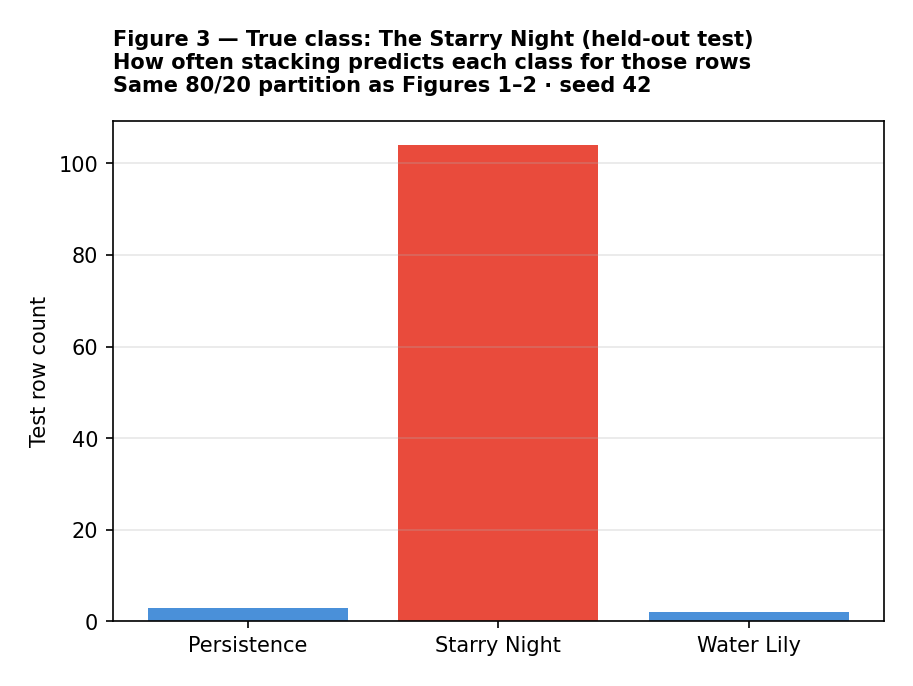
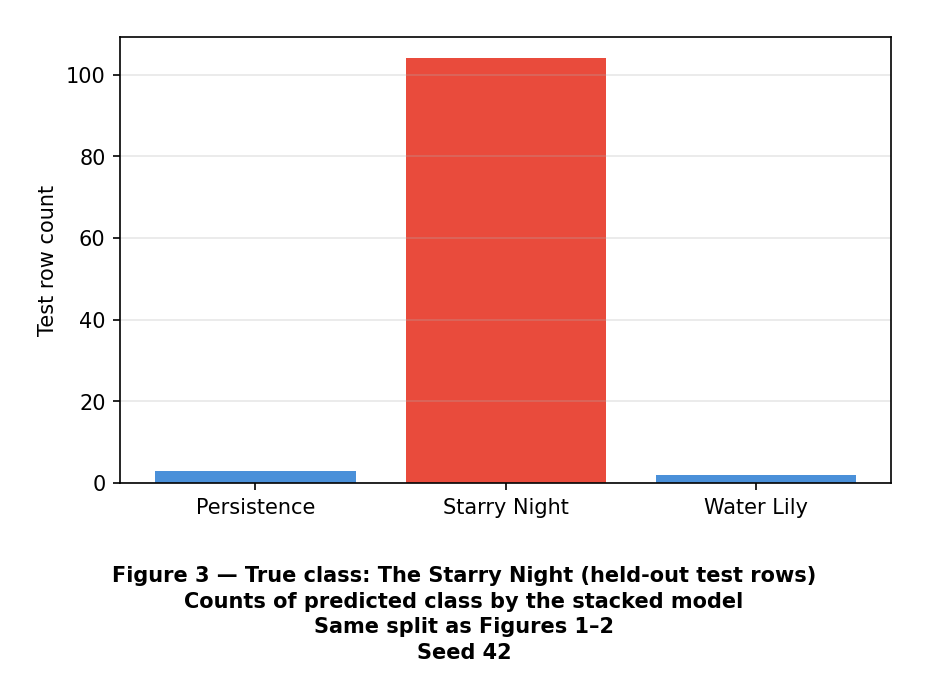
plots: titles below figure, Seed N on own line, larger bar labels, no shuffle wording
Made-with: Cursor

diff --git a/report_figures.py b/report_figures.py
@@ -23,7 +23,7 @@ Usage (repository root, ``training_data.csv`` present)::
     True class Starry Night: distribution of predicted labels on held-out test.
 
 ``plots/04_partition_seed_sensitivity.png``
-    Stacking test accuracy vs RNG seed used to shuffle persons before 80/20 split.
+    Stacking test accuracy vs random seed for the train/test split (same 80/20 protocol).
 
 ``plots/05_appendix_model_compare_min_mean_max.csv``
     Min/mean/max table; ``--appendix`` adds extra rows and ``05_appendix_model_compare.png``.
@@ -44,9 +44,20 @@ SPLIT_SEEDS_DEFAULT = [1, 7, 13, 21, 42, 84]
 PLOT_DIR = Path(__file__).resolve().parent / "plots"
 
 
-def _title_left(ax, lines: tuple[str, ...]) -> None:
-    """Multi-line figure title inside the axes (no long bottom caption — avoids wide/flat bbox)."""
-    ax.set_title("\n".join(lines), fontsize=10, fontweight="bold", loc="left", pad=14)
+def _figure_label_below(fig, lines: tuple[str, ...]) -> None:
+    """Multi-line figure title under the axes (reserve bottom margin first)."""
+    fig.tight_layout(rect=[0, 0.20, 1, 0.98])
+    fig.text(
+        0.5,
+        0.02,
+        "\n".join(lines),
+        ha="center",
+        va="bottom",
+        fontsize=10,
+        fontweight="bold",
+        transform=fig.transFigure,
+        linespacing=1.35,
+    )
 
 
 def _short_labels(names: list[str]) -> list[str]:
@@ -86,20 +97,20 @@ def figure_model_compare(r: dict, path: Path, split_seed: int) -> None:
     ax.grid(axis="y", alpha=0.3)
     # Macro-F1 can track accuracy closely on balanced 3-class data — show numeric values on bars.
     try:
-        ax.bar_label(bars_acc, fmt="%.4f", fontsize=5, padding=2)
-        ax.bar_label(bars_f1, fmt="%.4f", fontsize=5, padding=2)
+        ax.bar_label(bars_acc, fmt="%.4f", fontsize=7, padding=2)
+        ax.bar_label(bars_f1, fmt="%.4f", fontsize=7, padding=2)
     except AttributeError:
         pass
-    _title_left(
-        ax,
+    _figure_label_below(
+        fig,
         (
             "Figure 1 — Held-out test: accuracy vs macro-F1",
             "LR, NB, RF, majority vote, stacked meta-classifier",
-            f"80% persons train+val / 20% test · partition RNG seed {split_seed}",
+            "Split: 80% respondents train+val, 20% held-out test",
+            f"Seed {split_seed}",
         ),
     )
-    fig.tight_layout()
-    fig.savefig(path, dpi=150, bbox_inches="tight", pad_inches=0.2)
+    fig.savefig(path, dpi=150, bbox_inches="tight", pad_inches=0.25)
     plt.close(fig)
 
 
@@ -130,16 +141,16 @@ def figure_confusion_matrix(
                 va="center",
                 color="white" if cm[i, j] > thresh else "black",
             )
-    _title_left(
-        ax,
+    _figure_label_below(
+        fig,
         (
-            "Figure 2 — Confusion matrix: stacking on test set",
-            "Rows = true class, columns = predicted class (counts)",
-            f"Person-level split · regular_split seed = {split_seed}",
+            "Figure 2 — Confusion matrix (stacked classifier, held-out test)",
+            "Rows: true class, columns: predicted class (counts)",
+            "Split: 80% respondents train+val, 20% test",
+            f"Seed {split_seed}",
         ),
     )
-    fig.tight_layout()
-    fig.savefig(path, dpi=150, bbox_inches="tight", pad_inches=0.2)
+    fig.savefig(path, dpi=150, bbox_inches="tight", pad_inches=0.25)
     plt.close(fig)
 
 
@@ -161,16 +172,16 @@ def figure_starry_night_errors(r: dict, path: Path, split_seed: int) -> None:
     ax.bar(short, counts, color=["#4a90d9" if i != sn_i else "#e94b3c" for i in range(len(names))])
     ax.set_ylabel("Test row count")
     ax.grid(axis="y", alpha=0.3)
-    _title_left(
-        ax,
+    _figure_label_below(
+        fig,
         (
-            "Figure 3 — True class: The Starry Night (held-out test)",
-            "How often stacking predicts each class for those rows",
-            f"Same 80/20 partition as Figures 1–2 · seed {split_seed}",
+            "Figure 3 — True class: The Starry Night (held-out test rows)",
+            "Counts of predicted class by the stacked model",
+            "Same split as Figures 1–2",
+            f"Seed {split_seed}",
         ),
     )
-    fig.tight_layout()
-    fig.savefig(path, dpi=150, bbox_inches="tight", pad_inches=0.2)
+    fig.savefig(path, dpi=150, bbox_inches="tight", pad_inches=0.25)
     plt.close(fig)
 
 
@@ -178,24 +189,23 @@ def figure_stability_seeds(rows: list[tuple[int, float]], path: Path) -> None:
     seeds, accs = zip(*rows)
     fig, ax = plt.subplots(figsize=(6.5, 4.8))
     ax.plot(seeds, accs, "o-", linewidth=2, markersize=8)
-    ax.set_xlabel("RNG seed (shuffle persons, then 80/20 train+val vs test)")
-    ax.set_ylabel("Stacking accuracy on 20% held-out test")
+    ax.set_xlabel("Random seed (80/20 train+val vs test, same protocol each run)")
+    ax.set_ylabel("Stacking accuracy on held-out 20% test")
     ax.grid(True, alpha=0.3)
     m = min(accs)
     ax.axhline(m, color="gray", linestyle="--", alpha=0.7, label=f"min={m:.4f}")
     ax.axhline(np.mean(accs), color="green", linestyle=":", alpha=0.8, label=f"mean={np.mean(accs):.4f}")
     ax.legend(loc="lower right")
     seed_list = ", ".join(str(s) for s in seeds)
-    _title_left(
-        ax,
+    _figure_label_below(
+        fig,
         (
-            "Figure 4 — Sensitivity to train/test partition",
-            f"Seeds tried: {seed_list}",
-            "Same hyperparameters; only the person shuffle before splitting changes",
+            "Figure 4 — Stacking test accuracy vs random seed",
+            f"Seeds: {seed_list}",
+            "Hyperparameters fixed; only the random train/test split changes",
         ),
     )
-    fig.tight_layout()
-    fig.savefig(path, dpi=150, bbox_inches="tight", pad_inches=0.2)
+    fig.savefig(path, dpi=150, bbox_inches="tight", pad_inches=0.25)
     plt.close(fig)
 
 
@@ -213,20 +223,19 @@ def figure_appendix_bar(summary: pd.DataFrame, path: Path) -> None:
     ax.grid(axis="y", alpha=0.3)
     n = len(summary)
     mid = (
-        "Six partition seeds per configuration (same protocol as Fig. 4)"
+        "Six random seeds per configuration (same protocol as Figure 4)"
         if n > 1
-        else "Default run: submitted stacking only (see --appendix for comparisons)"
+        else "Default script: one stacking configuration (--appendix adds more)"
     )
-    _title_left(
-        ax,
+    _figure_label_below(
+        fig,
         (
-            "Figure 5 — Test accuracy: min, mean, max over partition seeds",
+            "Figure 5 — Test accuracy: min, mean, max over random seeds",
             mid,
             f"{n} configuration(s)",
         ),
     )
-    fig.tight_layout()
-    fig.savefig(path, dpi=150, bbox_inches="tight", pad_inches=0.2)
+    fig.savefig(path, dpi=150, bbox_inches="tight", pad_inches=0.25)
     plt.close(fig)
 
 

diff --git a/plots/README.md b/plots/README.md
@@ -1,6 +1,6 @@
 # Report plots (`plots/`)
 
-Generated by `python report_figures.py` from the repository root. Each PNG has a **short multi-line title** at the top (Figure N + what the plot shows + key settings such as split seed). Long captions were removed so exports are not stretched horizontally.
+Generated by `python report_figures.py` from the repository root. Each PNG has a **short multi-line label under the plot** (Figure N, what it shows, split line, then **Seed 42** on its own line where applicable). Figure 4 uses multiple seeds listed in the label.
 
 | File | Short description |
 |------|-------------------|
